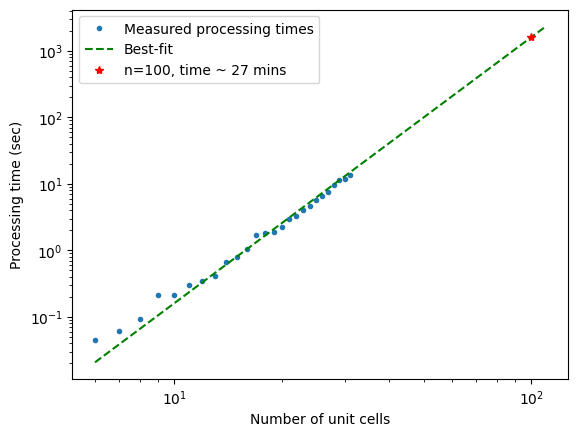
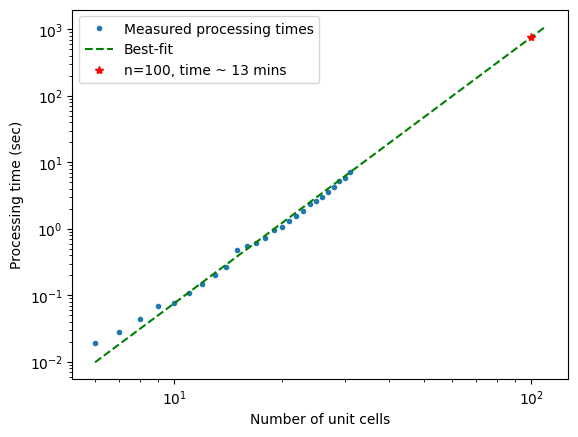
v0.1

diff --git a/demonstrations_v2/re_how_to_use_pennylane_for_resource_estimation/demo.py b/demonstrations_v2/re_how_to_use_pennylane_for_resource_estimation/demo.py
@@ -1,20 +1,22 @@
-r"""How To: Resource Estimation
----------------------------
+r"""How to use PennyLane for Resource Estimation
+============================================
 """
 
-import time
-import math
-import numpy as np
+######################################################################
+# < Insert Elevator Pitch for RE >
+# 
+# Let’s import our quantum resource estimator.
+# 
 
 import pennylane as qml
 import pennylane.estimator as qre
 
+import numpy as np
+import matplotlib.pyplot as plt
+import time
+import math
+
 ######################################################################
-# 1. Introduction:
-# ~~~~~~~~~~~~~~~~
-# 
-# < Insert Elevator Pitch for RE >
-# 
 # We will be using the Kitaev model as an example to explore resource estimation. See `these
 # docs <https://docs.pennylane.ai/en/stable/code/api/pennylane.spin.kitaev.html>`__ for more
 # information about the Kitaev hamiltonian. The hamiltonian is defined through nearest neighbor
@@ -47,25 +49,16 @@ print("Total number of qubits:", len(spin_ham.wires))
 # 
 # .. code-block:: none
 # 
-#    Processing time: ~ 11 sec
+#    Processing time: ~ 5 sec
 #    Total number of terms: 2640
 #    Total number of qubits: 1800
 
 ######################################################################
-# Notice that it took some time to generate this hamiltonian. Resource estimation is important because
-# even generating a full description of the hamiltonian can be quite computationally expensive. In
-# this case it would take about 1 hour just to generate the dense description of the hamiltonian!
+# | Notice that it took some time to generate this hamiltonian.
+# | Resource estimation is important because even generating a full description of the hamiltonian can
+#   be quite computationally expensive. In this case it would take about 15 minutes just to generate
+#   the dense description of the hamiltonian!
 # 
-
-######################################################################
-# [Optional] Show how long it would take:
-# ~~~~~~~~~~~~~~~~~~~~~~~~~~~~~~~~~~~~~~~
-# 
-# Show how long it would take to generate the full description of the hamiltonian
-# 
-
-# [Optional]
-import matplotlib.pyplot as plt
 
 n_lst = [i for i in range(6,32)]
 time_lst = []
@@ -77,43 +70,23 @@ for n in n_lst:
     spin_ham = qml.spin.kitaev(n_cells, coupling=np.array([kx, ky, kz]))
     t2 = time.time()
     time_lst.append(t2-t1)
-    print(f"Finished n = {n} in ~ {time_lst[-1]} sec")
+    if n % 5 == 0:
+        print(f"Finished n = {n} in ~ {time_lst[-1]} sec")
 
 ######################################################################
 # .. rst-class:: sphx-glr-script-out
 # 
 # .. code-block:: none
 # 
-#    Finished n = 6 in ~ 0.04488110542297363 sec
-#    Finished n = 7 in ~ 0.06234097480773926 sec
-#    Finished n = 8 in ~ 0.09322404861450195 sec
-#    Finished n = 9 in ~ 0.21576905250549316 sec
-#    Finished n = 10 in ~ 0.21580290794372559 sec
-#    Finished n = 11 in ~ 0.30110788345336914 sec
-#    Finished n = 12 in ~ 0.35100388526916504 sec
-#    Finished n = 13 in ~ 0.4110829830169678 sec
-#    Finished n = 14 in ~ 0.6779649257659912 sec
-#    Finished n = 15 in ~ 0.7971811294555664 sec
-#    Finished n = 16 in ~ 1.0414037704467773 sec
-#    Finished n = 17 in ~ 1.6982488632202148 sec
-#    Finished n = 18 in ~ 1.8217010498046875 sec
-#    Finished n = 19 in ~ 1.890824794769287 sec
-#    Finished n = 20 in ~ 2.2494540214538574 sec
-#    Finished n = 21 in ~ 2.927581787109375 sec
-#    Finished n = 22 in ~ 3.3197081089019775 sec
-#    Finished n = 23 in ~ 3.985456705093384 sec
-#    Finished n = 24 in ~ 4.6444091796875 sec
-#    Finished n = 25 in ~ 5.6554481983184814 sec
-#    Finished n = 26 in ~ 6.637783050537109 sec
-#    Finished n = 27 in ~ 7.614826202392578 sec
-#    Finished n = 28 in ~ 9.7729651927948 sec
-#    Finished n = 29 in ~ 11.51502013206482 sec
-#    Finished n = 30 in ~ 11.752906799316406 sec
-#    Finished n = 31 in ~ 13.435622215270996 sec
+#    Finished n = 10 in ~ 0.0780797004699707 sec
+#    Finished n = 15 in ~ 0.48148012161254883 sec
+#    Finished n = 20 in ~ 1.0496199131011963 sec
+#    Finished n = 25 in ~ 2.62518310546875 sec
+#    Finished n = 30 in ~ 5.784091949462891 sec
 
 plt.plot(n_lst, time_lst, ".", label="Measured processing times")
 
-a, b = (0.000016, 4)
+a, b = (0.0000076, 4)
 fit_lst = [
     a * n**b for n in (n_lst + [110])
 ]
@@ -137,9 +110,11 @@ plt.show()
 #    :width: 80%
 
 ######################################################################
-# 2. Compact Hamiltonian Representation
-# ~~~~~~~~~~~~~~~~~~~~~~~~~~~~~~~~~~~~~
+# Making it Easy
+# ~~~~~~~~~~~~~~
 # 
+
+######################################################################
 # Thankfully we don’t need a detailed description of our hamiltonian to estimate its resources! The
 # geometry of the honeycomb lattice and the structure of the hamiltonian allows us to calculate some
 # important quantities directly:
@@ -151,7 +126,7 @@ plt.show()
 # \end{align}`
 # 
 # We can capture the key information of our hamiltonian in a compact representation using the
-# ``qre.PauliHamiltonian`` class!
+# ``qre.PauliHamiltonian`` class.
 # 
 
 n_cell = 100
@@ -172,8 +147,7 @@ kitaev_H = qre.PauliHamiltonian(
 )
 
 ######################################################################
-# 3. Estimate:
-# ~~~~~~~~~~~~
+# Now, ``qre.estimate`` provides us with our circuit resources!
 # 
 
 order = 2
@@ -197,12 +171,12 @@ print(qre.estimate(circuit)(kitaev_H))
 #       allocated wires: 0
 #         zero state: 0
 #         any state: 0
-#     Total gates : 2.862E+7
+#     Total gates : 3.022E+7
 #       'T': 2.622E+7,
 #       'CNOT': 1.192E+6,
 #       'Z': 3.960E+5,
 #       'S': 7.920E+5,
-#       'Hadamard': 2.000E+4
+#       'Hadamard': 1.612E+6
 
 # We can estimate the resources of individual operators as well! 
 resources_without_grouping = qre.estimate(qre.TrotterPauli(kitaev_H, num_steps, order))
@@ -242,8 +216,8 @@ print("Without grouping:", f"\n T counts: {resources_without_grouping.gate_count
 #     T counts: 2.622E+07
 
 ######################################################################
-# 4. Gatesets & Config
-# ~~~~~~~~~~~~~~~~~~~~
+# Gatesets & Configurations
+# ~~~~~~~~~~~~~~~~~~~~~~~~~
 # 
 # The cost of an algorithm is quantified by the number of logical qubits required and the number of
 # gates used. Different hardware will natively support different gatesets. The default gateset used by
@@ -264,7 +238,7 @@ print(f"\n{res}")
 # .. code-block:: none
 # 
 #    Default gateset:
-#     frozenset({'Hadamard', 'CNOT', 'Y', 'Toffoli', 'T', 'X', 'Z', 'S'})
+#     frozenset({'Hadamard', 'X', 'S', 'Y', 'T', 'CNOT', 'Toffoli', 'Z'})
 #    
 #    --- Resources: ---
 #     Total wires: 2.000E+4
@@ -272,12 +246,12 @@ print(f"\n{res}")
 #       allocated wires: 0
 #         zero state: 0
 #         any state: 0
-#     Total gates : 1.993E+7
+#     Total gates : 2.116E+7
 #       'T': 1.791E+7,
 #       'CNOT': 8.140E+5,
 #       'Z': 3.960E+5,
 #       'S': 7.920E+5,
-#       'Hadamard': 2.000E+4
+#       'Hadamard': 1.252E+6
 
 # Customize gateset: 
 
@@ -320,14 +294,12 @@ print(f"Low-level resources:\n{low_res}")
 #       allocated wires: 0
 #         zero state: 0
 #         any state: 0
-#     Total gates : 2.429E+6
-#       'RX': 1.100E+5,
-#       'RY': 1.980E+5,
-#       'RZ': 9.900E+4,
+#     Total gates : 3.661E+6
+#       'RZ': 4.070E+5,
 #       'CNOT': 8.140E+5,
 #       'Z': 3.960E+5,
 #       'S': 7.920E+5,
-#       'Hadamard': 2.000E+4
+#       'Hadamard': 1.252E+6
 #    
 #    Low-level resources:
 #    --- Resources: ---
@@ -336,10 +308,10 @@ print(f"Low-level resources:\n{low_res}")
 #       allocated wires: 0
 #         zero state: 0
 #         any state: 0
-#     Total gates : 2.191E+7
+#     Total gates : 2.314E+7
 #       'T': 2.108E+7,
 #       'CNOT': 8.140E+5,
-#       'Hadamard': 2.000E+4
+#       'Hadamard': 1.252E+6
 
 ######################################################################
 # When decomposing our algorithms to a gateset, it is often the case that we only have some
@@ -387,11 +359,11 @@ print("High precision (1e-15):", f"\n T counts: {res.gate_counts["T"]:.3E}")    
 #     T counts: 2.108E+07
 #    
 #    High precision (1e-15):
-#     T counts: 2.325E+07
+#     T counts: 2.108E+07
 
 ######################################################################
-# 5. Swapping Decompositions
-# ~~~~~~~~~~~~~~~~~~~~~~~~~~
+# Swapping Decompositions
+# ~~~~~~~~~~~~~~~~~~~~~~~
 # 
 # There are many ways to decompose a quantum gate into our target gateset. Selecting an alternate
 # decomposition is a great way to optimize the cost of your quantum workflow. This can be done easily
@@ -490,8 +462,8 @@ print("Mixed Fallback decomposition", f"T counts: {mixed_fallback_cost_RZ.gate_c
 #    Mixed Fallback decomposition T counts: 22
 
 ######################################################################
-# 6. Wrapping it all up
-# ~~~~~~~~~~~~~~~~~~~~~
+# Putting it All Together
+# ~~~~~~~~~~~~~~~~~~~~~~~
 # 
 # We can combine all of the features we have seen so far to optimize the cost of Trotterized time
 # evolution of the Kitaev hamiltonian:
@@ -523,14 +495,14 @@ print(resources)
 #       allocated wires: 0
 #         zero state: 0
 #         any state: 0
-#     Total gates : 2.033E+7
-#       'T': 1.949E+7,
+#     Total gates : 1.419E+7
+#       'T': 1.212E+7,
 #       'CNOT': 8.140E+5,
-#       'Hadamard': 2.000E+4
+#       'Hadamard': 1.252E+6
 
 ######################################################################
-# 7. [Optional] Mapping
-# ~~~~~~~~~~~~~~~~~~~~~
+# Mapping your PennyLane circuits to ``estimator``
+# ~~~~~~~~~~~~~~~~~~~~~~~~~~~~~~~~~~~~~~~~~~~~~~~~
 # 
 # If we already had executable circuits / workflows, we could just call estimate on them directly!
 # 
@@ -540,7 +512,7 @@ print(resources)
 # ^^^^^^^^^^^^^^^^^^^^^^^^^^^^^^^^^^^^^^^^^^^
 # 
 
-n_cell = 30
+n_cell = 10
 n_cells = [n_cell, n_cell]
 kx, ky, kz = (0.5, 0.6, 0.7)
 
@@ -583,19 +555,6 @@ print(f"Processing time: ~ {(t4 - t3):.3E} sec")
 print("Total number of terms:", compact_hamiltonian.num_pauli_words)
 print("Total number of qubits:", compact_hamiltonian.num_qubits)
 
-######################################################################
-# .. rst-class:: sphx-glr-script-out
-# 
-# .. code-block:: none
-# 
-#    Processing time: ~ 9.193E+01 sec
-#    Total number of terms: 2640
-#    Total number of qubits: 1800
-#    
-#    Processing time: ~ 5.877E-04 sec
-#    Total number of terms: 2640
-#    Total number of qubits: 1800
-
 order = 2
 num_trotter_steps = 1
 
@@ -620,50 +579,12 @@ t6 = time.time()
 print(f"Processing time: ~ {(t6 - t5):.3E} sec")
 print(resources_exec)
 
-######################################################################
-# .. rst-class:: sphx-glr-script-out
-# 
-# .. code-block:: none
-# 
-#    Processing time: ~ 1.734E+01 sec
-#    --- Resources: ---
-#     Total wires: 1800
-#       algorithmic wires: 1800
-#       allocated wires: 0
-#         zero state: 0
-#         any state: 0
-#     Total gates : 2.151E+5
-#       'T': 1.940E+5,
-#       'CNOT': 8.820E+3,
-#       'Z': 3.480E+3,
-#       'S': 6.960E+3,
-#       'Hadamard': 1.800E+3
-
 t5 = time.time()
 resources_compact = qre.estimate(circuit)(compact_hamiltonian)
 t6 = time.time()
 
 print(f"Processing time: ~ {(t6 - t5):.3E} sec")
 print(resources_compact)
-
-######################################################################
-# .. rst-class:: sphx-glr-script-out
-# 
-# .. code-block:: none
-# 
-#    Processing time: ~ 4.470E-04 sec
-#    --- Resources: ---
-#     Total wires: 1800
-#       algorithmic wires: 1800
-#       allocated wires: 0
-#         zero state: 0
-#         any state: 0
-#     Total gates : 2.151E+5
-#       'T': 1.940E+5,
-#       'CNOT': 8.820E+3,
-#       'Z': 3.480E+3,
-#       'S': 6.960E+3,
-#       'Hadamard': 1.800E+3
 
 ######################################################################
 # <Option 2>: code up the example from another demo:
@@ -763,30 +684,7 @@ params = np.random.rand(len(gates)) # random parameters for all the gates (remem
 penn_op_expval = penn_iqp_op_expval(params, gates, op, n_qubits)
 print("Expectation value: ", penn_op_expval)
 
-######################################################################
-# .. rst-class:: sphx-glr-script-out
-# 
-# .. code-block:: none
-# 
-#    Expectation value:  0.28808431394517564
-
 ## Estimate Resource for this demo: 
 
 res = qre.estimate(penn_iqp_circuit)(params, gates, op, n_qubits)
 print(res)
-
-######################################################################
-# .. rst-class:: sphx-glr-script-out
-# 
-# .. code-block:: none
-# 
-#    --- Resources: ---
-#     Total wires: 3
-#       algorithmic wires: 3
-#       allocated wires: 0
-#         zero state: 0
-#         any state: 0
-#     Total gates : 276
-#       'T': 264,
-#       'CNOT': 6,
-#       'Hadamard': 6
